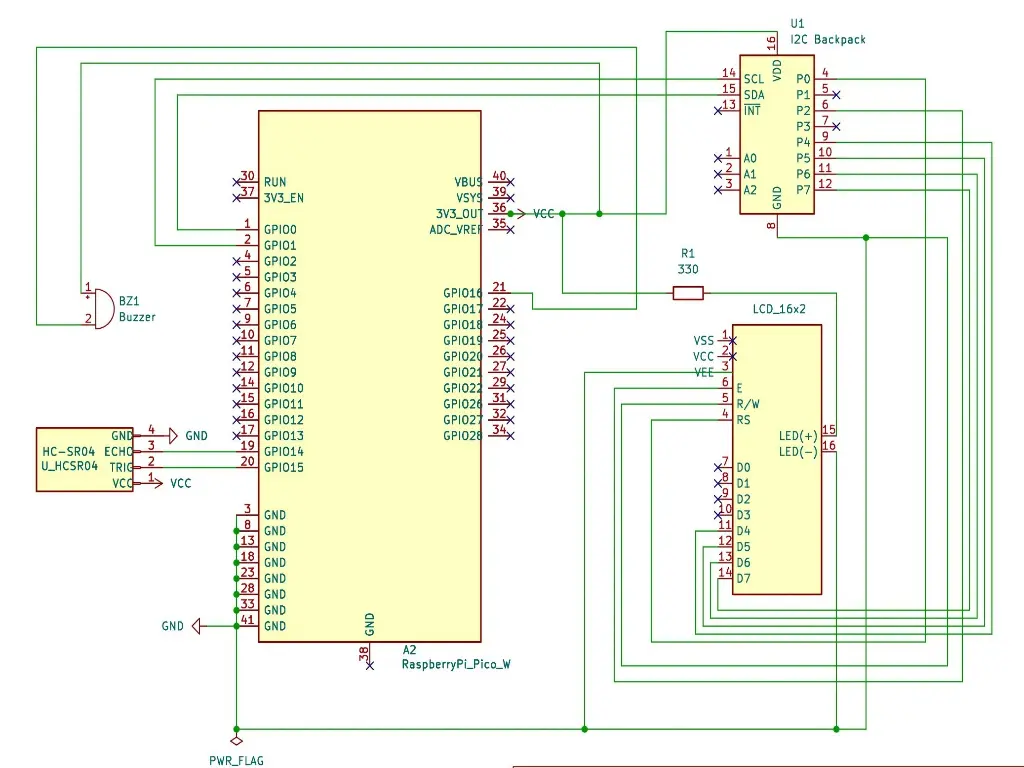
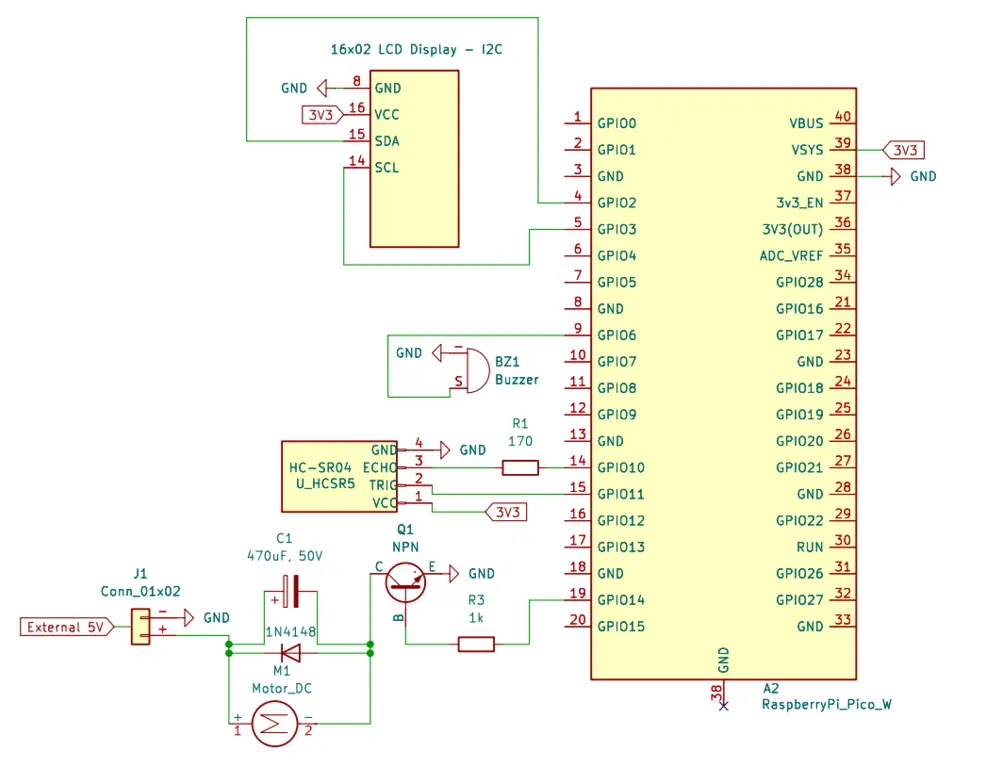
Changed a lot because I added a water pump to make the project more complex (as I was suggested) + Added Hardware photos and corrected past mistakes

diff --git a/website/versioned_docs/version-acs_cc/project/2025/andrei_daniel.calu/index.md b/website/versioned_docs/version-acs_cc/project/2025/andrei_daniel.calu/index.md
@@ -1,5 +1,5 @@
 # Water Level Monitoring System
-Measures the water level in a container.
+Maintains the water level in a container using an ultrasonic sensor and automatic refill via a water pump.
 
 :::info 
 
@@ -10,11 +10,11 @@ Measures the water level in a container.
 
 ## Description
 
-The project aims to measure the water level in real time using a Raspberry Pi Pico board and an ultrasonic sensor. The sensor detects the water level by calculating the time it takes for sound waves to travel to the water surface and back, and the result is displayed on an LCD. Additionally, a buzzer alerts when the water level is too high.
+The project aims to measure and mantain the water level in real time using a Raspberry Pi Pico board, an **ultrasonic sensor** and a **water pump**. The sensor detects the water level by calculating the time it takes for sound waves to travel to the water surface and back, the result is displayed on an **LCD** and alerts are triggered via a **buzzer** when the water level is too high. If the water level drops below a defined threshold, the system automatically activates the water pump to refill the container from an external tank. This allows the system to maintain a stable water level.
 
 ## Motivation
 
-**The idea for this project** came from a conversation with a friend who explained how his dad uses a water tank to estimate recent rainfall. This inspired me to create a simple and practical system to automatically measure water levels using a Raspberry Pi Pico and an ultrasonic sensor. In agriculture, depending on the amount of rainfall collected in an initially empty tank, the farmer can decide which type of fieldwork is most suitable. By turning this manual observation into a digital process, the system improves accuracy and convenience, making it a useful tool for small-scale farms and rural applications.
+**The idea for this project** came from a conversation with a friend who explained how his dad uses a water tank to estimate recent rainfall. This inspired me to create a simple and practical system to automatically measure and manage water levels using a Raspberry Pi Pico. In agriculture, depending on the amount of rainfall collected in an initially empty tank, the farmer can decide which type of fieldwork is most suitable. With the addition of the water pump, the system can now not only monitor but also **correct** the water level, making it a more complete and autonomous tool for rural or smart farming applications.
 
 ## Architecture
 
@@ -22,34 +22,44 @@ The project aims to measure the water level in real time using a Raspberry Pi Pi
 
 *Main Components used in the Water Level Monitoring System project:*
 
-**1-Raspberry Pi Pico**: Microcontroller unit that processes data from the sensor and controls outputs.
+**1 - Raspberry Pi Pico**: Microcontroller unit that processes data from the sensor and controls outputs.
 
-**2-Ultrasonic Sensor HC-SR04**: Measures the distance to the water surface to determine the water level.
+**2 - Ultrasonic Sensor HC-SR04**: Measures the distance to the water surface to determine the water level.
 
-**3-LCD Display**: Displays the measured water level in real time. Also, prints appropiate messages based on the water level.
+**3 - LCD Display**: Displays the measured water level in real time. Also, prints appropiate messages based on the water level.
 
-**4-Buzzer**: Emits a sound alert if the water level is too high.
+**4 - Buzzer**: Emits a sound alert if the water level is too high.
 
-**5-Smartphone**: Receives water level data via built-in Wi-Fi for remote monitoring.
+**5 - Water Pump**: Refills the container automatically if the water level is too low.
 
-**6-Power Supply**: Provides power to the entire circuit.
+**6 - Power Supply** – USB (for logic) and 5V adapter with DC connector (for pump).
+
+**7 - NPN Transistor (TIP31)** – Allows the Raspberry Pi Pico to safely switch the 5V pump using GPIO control.
 
 ## Log
 
-<!-- write every week your progress here -->
+### Week 5 - 11 May
+Planned the project hardware setup and decided which components to buy (Raspberry Pi Pico W, HC-SR04 sensor, LCD 16x2 with I2C backpack, buzzer, pump, etc.). Started assembling the system on a breadboard. Soldered and connected the Raspberry Pi Pico W.
 
-### Week  -  May
+### Week 12 - 18 May
+Tested early connections and realized some missing components (resistor, diode, power adapter) — placed a second order to complete the setup. Developed the core logic for measuring water level with the ultrasonic sensor. Displayed readings on the LCD via I2C. Added the buzzer and programmed alerts for high water levels. Tested pump activation with a transistor switch. Improved electrical stability with a flyback diode and capacitor.
 
-
-### Week  -  May
-
-
-### Week  -  May
+### Week 19 - 25 May
 
 
 ## Hardware
 
-The Raspberry Pi Pico W serves as the core microcontroller for the water level monitoring system. It features built-in Wi-Fi, which allows it to transmit data wirelessly to a smartphone on the same network. The system uses an HC-SR04 ultrasonic sensor to measure the water level in a tank by calculating the distance to the surface. The measured data is displayed on a 16x2 LCD screen using the I2C interface for efficient communication. A buzzer is used to alert the user when water levels fall outside predefined thresholds. The entire setup is powered by a power supply and assembled using a breadboard and jumper wires for quick prototyping.
+The Raspberry Pi Pico W acts as the central controller and is powered directly from a laptop via USB. It reads distance data from the HC-SR04 ultrasonic sensor and updates the LCD screen using the I2C protocol. Alerts are provided through a buzzer when water is too high. When the water level drops too low, the system triggers a submersible 5V water pump using a NPN power transistor (TIP31), which acts as a switch. This allows the low-power GPIO pin to control the higher-current pump safely. The pump runs off a dedicated 5V power adapter (HLK-PM01-like), connected through a DC barrel jack adapter for better current handling.
+Here are some pictures of my project:
+![1](photos/1.webp)
+
+![2](photos/2.webp)
+
+![3](photos/3.webp)
+
+![4](photos/4.webp)
+
+![5](photos/5.webp)
 
 ### Schematics
 ![diagram](KiCad.webp)
@@ -59,48 +69,37 @@ The Raspberry Pi Pico W serves as the core microcontroller for the water level m
 
 | Device                            | Usage                        | Price       |
 |-----------------------------------|------------------------------|-------------|
-| Raspberry Pi Pico W x2            | The microcontroller          | [79,22 RON](https://www.optimusdigital.ro/en/raspberry-pi-boards/13327-raspberry-pi-pico-2-w.html?search_query=raspberry+pi+pico+2&results=36) | 
-| HC-SR04+ Ultrasonic Sensor        | Measures distance            | [14,99 RON](https://www.optimusdigital.ro/ro/senzori-senzori-ultrasonici/2328-senzor-ultrasonic-de-distana-hc-sr04-compatibil-33-v-i-5-v.html?search_query=senzor+ultrasonic&results=42) |
-| LCD Display (16x2)                | Displays water level         | [11,00 RON](https://sigmanortec.ro/LCD-1602-p125700685) |
-| HC-SR04 Ultrasonic Sensor Support | Holds the sensor             | [4,99 RON](https://www.optimusdigital.ro/ro/mecanica-accesorii-de-prindere/211-suport-pentru-senzor-ultrasonic-hc-sr04.html?search_query=senzor+ultrasonic&results=42)  |
-| Active Buzzer Module              | Sound Alert                  | [3,57 RON](https://sigmanortec.ro/Modul-buzzer-activ-p136261325)  |
-| Breadboard HQ (830 Points)        | Prototyping board            | [9,98 RON](https://www.optimusdigital.ro/ro/prototipare-breadboard-uri/8-breadboard-830-points.html)  |
-| Jumper Wires M-F (15 cm, 40p)     | Connecting components        | [7,99 RON](https://www.optimusdigital.ro/ro/toate-produsele/877-set-fire-mama-tata-40p-15-cm.html)  |
-| Resistors (330Ω x10)              | LCD Backlight, Pull-ups, etc | [0,15 RON](https://www.optimusdigital.ro/ro/componente-electronice-rezistoare/7794-rezistor-3-w-033-.html?gad_source=1&gclid=Cj0KCQjw2tHABhCiARIsANZzDWqnykDpLlPpah0CTaAy0VjRNIQ4zMaC14ScpLXnBJU6PH_bIniU5ZYaAkaeEALw_wcB)  |
-| Resistors (10kΩ x10)              | LCD Backlight, Pull-ups, etc | [0,15 RON](https://www.electronicmarket.ro/ro/product/rezistor-10k-025-watt?gad_source=1&gclid=Cj0KCQjw2tHABhCiARIsANZzDWp0jKq0nljob-80ObhxSmjnB2PDugY8a8t4_HNZuI4vX_COFNQF3VYaAuKtEALw_wcB)  |
-| Pin Header (2.54mm, 40p, White)   | Connectors/Pins              | [0,99 RON](https://www.optimusdigital.ro/ro/componente-electronice-headere-de-pini/463-header-de-pini-alb-254-mm-40p.html)  |
+| [Raspberry Pi Pico W](https://datasheets.raspberrypi.com/pico/pico-2-datasheet.pdf)           | The microcontroller          | [34,50 RON](https://www.optimusdigital.ro/en/raspberry-pi-boards/13327-raspberry-pi-pico-2-w.html?search_query=raspberry+pi+pico+2&results=36) | 
+| [HC-SR04+ Ultrasonic Sensor](https://cdn.sparkfun.com/datasheets/Sensors/Proximity/HCSR04.pdf)        | Measures distance            | [14,99 RON](https://www.optimusdigital.ro/ro/senzori-senzori-ultrasonici/2328-senzor-ultrasonic-de-distana-hc-sr04-compatibil-33-v-i-5-v.html?search_query=senzor+ultrasonic&results=42) |
+| [I2C LCD Display (16x2)](https://www.handsontec.com/dataspecs/module/I2C_1602_LCD.pdf)            | Displays water level         | [11,00 RON](https://sigmanortec.ro/LCD-1602-p125700685) |
+| [Active Buzzer Module](https://www.handsontec.com/dataspecs/module/active%20buzzer%20module.pdf)              | Sound Alert                  | [4,98 RON](https://www.optimusdigital.ro/en/buzzers/12513-pcb-mounted-active-buzzer-module.html?gad_source=1&gad_campaignid=19615979487&gclid=CjwKCAjw56DBBhAkEiwAaFsG-vXNJhgBEvZX5LWkAEUmauH2CZ2dnM7SDTmkbxsKoKJyGBkhti8R-BoC-JMQAvD_BwE)  |
+| [Breadboard HQ (830 Points)](https://components101.com/sites/default/files/component_datasheet/Breadboard%20Datasheet.pdf)        | Prototyping board            | [9,98 RON](https://www.optimusdigital.ro/ro/prototipare-breadboard-uri/8-breadboard-830-points.html)  |
+| [Jumper Wires M-F (15 cm, 40p)](https://www.farnell.com/datasheets/3178883.pdf)     | Connecting components        | [7,99 RON](https://www.optimusdigital.ro/ro/toate-produsele/877-set-fire-mama-tata-40p-15-cm.html)  |
+| [Jumper Wires M-M (10 cm, 40p)](https://www.farnell.com/datasheets/3178883.pdf)     | Connecting components        | [12,40 RON](https://www.optimusdigital.ro/en/wires-with-connectors/885-wires-male-male-10p-10cm.html?gad_source=1&gad_campaignid=19615979487&gclid=CjwKCAjw56DBBhAkEiwAaFsG-qHJKzo42IOzSP1d30HfmI0cgx-gau9xEfyK-IN1zCScOfJxQTPSdxoCUEMQAvD_BwE)  |
+| [Resistors (330Ω x10)](https://components101.com/resistors/resistor)              | LCD Backlight, Pull-ups, etc | [0,15 RON](https://www.optimusdigital.ro/ro/componente-electronice-rezistoare/7794-rezistor-3-w-033-.html?gad_source=1&gclid=Cj0KCQjw2tHABhCiARIsANZzDWqnykDpLlPpah0CTaAy0VjRNIQ4zMaC14ScpLXnBJU6PH_bIniU5ZYaAkaeEALw_wcB)  |
+| [Resistors (180Ω x10)](https://components101.com/resistors/resistor)              | LCD Backlight, Pull-ups, etc | [0,15 RON](https://www.optimusdigital.ro/en/resistors/1663-025w-180-resistor.html)  |
+| [Pin Header (2.54mm, 40p, White)](https://www.farnell.com/datasheets/2585485.pdf)   | Connectors/Pins              | [0,99 RON](https://www.optimusdigital.ro/ro/componente-electronice-headere-de-pini/463-header-de-pini-alb-254-mm-40p.html)  |
+| [Submersible water pump](https://www.mouser.com/datasheet/2/1398/Soldered_101844_mini_water_pump-3532437.pdf?srsltid=AfmBOoorusfV5bknqaVLhZHJ-njgCdvt00yS8LWoR6n0n2ClLl-VglMS)            | Transporting water           | [7,08 RON](https://sigmanortec.ro/Pompa-apa-submersibila-3-6VDC-p125423415)  |
+| [DC barrel jack adapter](https://datasheet.octopart.com/368-Adafruit-Industries-datasheet-21189944.pdf)            | Connecting power supply       | [3,68 RON](https://sigmanortec.ro/en/connector-55x25mm-with-screw-mother)  |
+| [NPN Transistor](https://www.onsemi.com/download/data-sheet/pdf/tip31a-d.pdf)             | Managing the water pump  | [2,38 RON](https://sigmanortec.ro/en/npn-transistor-tip31-tip31c-to220)  |
+| [External power supply](https://docs.rs-online.com/275b/A700000006857541.pdf)             | Supplying the pump       | [23,38 RON](https://sigmanortec.ro/en/power-supply-5v-3a-55x21-220vac)  |
+| [Water pump hose](https://www.mouser.com/datasheet/2/1398/Soldered_101844_mini_water_pump-3532437.pdf?srsltid=AfmBOoorusfV5bknqaVLhZHJ-njgCdvt00yS8LWoR6n0n2ClLl-VglMS)             | Hose for the pump       | [6,26 RON](https://sigmanortec.ro/en/water-pump-hose-6x8mm-1-meter)  |
 
 
 ## Software
 
 | Library | Description | Usage |
 |---------|-------------|-------|
-| [cortex-m](https://crates.io/crates/cortex-m)                     | Low-level access to Cortex-M processors         | Provides core CPU primitives and access                                  |
-| [cortex-m-rt](https://crates.io/crates/cortex-m-rt)               | Cortex-M runtime support                        | Handles microcontroller startup, vector table, memory setup              |
-| [embassy-executor](https://crates.io/crates/embassy-executor)     | Async task executor for Embassy                 | Manages asynchronous tasks like sensor reading and Wi-Fi communication   |
-| [embassy-rp](https://crates.io/crates/embassy-rp)                 | Embassy support for Raspberry Pi RP2040         | Provides HAL implementations for RP2040 peripherals                      |
-| [embassy-time](https://crates.io/crates/embassy-time)             | Timing utilities for Embassy                    | Provides async delays, timers, and timeouts                              |
-| [embassy-net](https://crates.io/crates/embassy-net)               | TCP/IP network stack for Embassy                | Enables Wi-Fi-based communication and networking                         |
-| [embassy-sync](https://crates.io/crates/embassy-sync)             | Synchronization primitives for Embassy          | Async mutexes, channels, and coordination primitives                     |
-| [embedded-hal](https://crates.io/crates/embedded-hal)             | Hardware abstraction layer for embedded systems | Standard blocking traits used by many drivers                            |
-| [embedded-hal-async](https://crates.io/crates/embedded-hal-async) | Asynchronous HAL traits                         | Used for drivers that support async behavior, like I2C, SPI, etc.        |
-| [cyw43](https://crates.io/crates/cyw43)                           | Wi-Fi driver for CYW43 chips (used by Pico W)   | Controls the Pico W’s built-in Wi-Fi module                              |
-| [ag-lcd](https://crates.io/crates/ag-lcd)                         | LCD driver with I2C/PCF8574 support             | Drives 16x2 LCDs connected via I2C                                       |
-| [log](https://crates.io/crates/log)                               | Logging facade for Rust                         | Provides a universal logging interface for embedded and std environments |
-| [defmt](https://crates.io/crates/defmt)                           | Efficient logging for embedded                  | Compact, structured logging for low-memory targets                       |
-| [defmt-rtt](https://crates.io/crates/defmt-rtt)                   | RTT target for defmt logging                    | Outputs logs over RTT for debug probes                                   |
-| [panic-probe](https://crates.io/crates/panic-probe)               | Panic handler with debug output                 | Sends panic messages over defmt for debugging                            |
-| [panic-halt](https://crates.io/crates/panic-halt)                 | Minimal panic handler                           | Halts execution on panic without debug output                            |
-| [static\_cell](https://crates.io/crates/static_cell)              | Static allocation utilities                     | Statically allocates buffers or singletons needed in no-std environments |
-| [heapless](https://crates.io/crates/heapless)                     | Heapless data structures                        | Provides `Vec`, `String`, etc., that work without dynamic memory         |
-| [futures](https://crates.io/crates/futures)                       | Async utilities for Rust                        | Foundation for writing async logic, required by Embassy and drivers      |
-| [embedded-graphics](https://crates.io/crates/embedded-graphics)   | 2D drawing primitives                           | Used for rendering text or graphics on displays                          |
-| [st7789](https://crates.io/crates/st7789)                         | Display driver for ST7789 LCDs                  | Driver for displays often used with Pico Explorer or similar boards      |
-| [display-interface](https://crates.io/crates/display-interface)   | Display interface traits                        | Abstraction layer between graphics drivers and display hardware          |
-| [byte-slice-cast](https://crates.io/crates/byte-slice-cast)       | Safe casting between byte slices and arrays     | Useful for dealing with binary data                                      |
-| [micro-rand](https://crates.io/crates/micro-rand)                 | No-std random number generator                  | Used to add randomness, e.g., for simulating events or randomness        |
-| [shared-bus](https://crates.io/crates/shared-bus)                 | Shared I2C/SPI bus management                   | Enables multiple devices to safely share a bus                           |
-| [no\_std\_strings](https://crates.io/crates/no_std_strings)       | String types for no-std environments            | Helps work with strings when heap allocation isn’t available             |
+| [embassy-rp](https://crates.io/crates/embassy-rp) | Embassy support for Raspberry Pi RP2040 | Provides HAL implementations for GPIO, I2C, and other peripherals used to interface with sensors and LCD |
+| [embassy-executor](https://crates.io/crates/embassy-executor) | Async task executor for Embassy | Manages the asynchronous main function and enables async/await patterns |
+| [embassy-time](https://crates.io/crates/embassy-time) | Timing utilities for Embassy | Provides async delays, timers for ultrasonic sensor timing, and timeouts |
+| [embassy-futures](https://crates.io/crates/embassy-futures) | Async utilities for Embassy | Used for select patterns when waiting for ultrasonic sensor responses |
+| [lcd1602-diver](https://crates.io/crates/lcd1602-diver) | LCD 1602 driver for I2C interface | Controls the 16x2 LCD display via I2C to show water level information |
+| [heapless](https://crates.io/crates/heapless) | Heapless data structures | Provides String implementation for no_std environments to format display text |
+| [defmt](https://crates.io/crates/defmt) | Efficient logging for embedded | Structured logging to debug the water level system |
+| [defmt-rtt](https://crates.io/crates/defmt-rtt) | RTT target for defmt logging | Outputs logs over RTT for debugging with probe-run |
+| [panic-probe](https://crates.io/crates/panic-probe) | Panic handler with debug output | Sends panic messages via defmt for diagnosing issues |
+| [cortex-m-rt](https://crates.io/crates/cortex-m-rt) | Cortex-M runtime support | Handles microcontroller startup and vector table |
 
 
 ## Links
@@ -108,3 +107,5 @@ The Raspberry Pi Pico W serves as the core microcontroller for the water level m
 <!-- Add a few links that inspired you and that you think you will use for your project -->
 
 1. [Ultrasonic Water Level Indicator using HC-SR04 & Arduino](https://www.youtube.com/watch?v=o5Qo_I0TdOY&ab_channel=talkingStuffNetwork)
+2. [AquaAlert - Overflow prevention system](https://www.youtube.com/shorts/MNxw2Y85WyQ?feature=share)
+3. [How To Use A Water Pump with an Arduino](https://www.youtube.com/watch?v=UEL9NR2Z5BY&t=290s&ab_channel=CoreElectronics)
